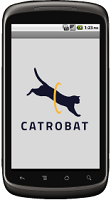
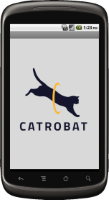
HTML-171 DevieEmulator UI
Style for Device Emulator

diff --git a/Client/pocketCode/css/pocketCode.css b/Client/pocketCode/css/pocketCode.css
@@ -1340,6 +1340,95 @@
 }
 
 /*Slider Control*/
+.pc-slider input[type=range]{
+    -webkit-appearance: none;
+    border-radius: 3px;
+    width: 310px;
+}
+    .pc-slider input[type=range]::-webkit-slider-runnable-track {
+        width: 310px;
+        height: 5px;
+        background: #17A5B8;
+        border-radius: 3px;
+    }
+
+    .pc-slider input[type=range]::-webkit-slider-thumb {
+        -webkit-appearance: none;
+        border: none;
+        height: 16px;
+        width: 16px;
+        border-radius: 50%;
+        background: #A9DCF1;
+        margin-top: -4px;
+    }
+
+    .pc-slider input[type=range]:focus {
+        outline: none;
+    }
+
+    .pc-slider input[type=range]:focus::-webkit-slider-runnable-track {
+        background: #17A5B8;
+    }
+
+    .pc-slider input[type=range]::-moz-range-track {
+        width: 310px;
+        height: 5px;
+        background: #17A5B8;
+        border: none;
+        border-radius: 3px;
+    }
+
+    .pc-slider input[type=range]::-moz-range-thumb {
+        border: none;
+        height: 16px;
+        width: 16px;
+        border-radius: 50%;
+        background: #A9DCF1;
+    }
+
+    .pc-slider input[type=range]:-moz-focusring{
+        outline: 1px solid white;
+        outline-offset: -1px;
+    }
+
+    .pc-slider input[type=range]:focus::-moz-range-track {
+        background: #ccc;
+    }
+
+    .pc-slider input[type=range]::-ms-track {
+        width: 310px;
+        height: 5px;
+        background: transparent;
+        border-color: transparent;
+        border-width: 6px 0;
+        color: transparent;
+    }
+
+    .pc-slider input[type=range]::-ms-fill-lower {
+        background: #17A5B8;
+        border-radius: 5px;
+    }
+
+    .pc-slider input[type=range]::-ms-fill-upper {
+        background: #17A5B8;
+        border-radius: 5px;
+    }
+
+    .pc-slider input[type=range]::-ms-thumb {
+        border: none;
+        height: 16px;
+        width: 16px;
+        border-radius: 50%;
+        background: #A9DCF1;
+    }
+
+    .pc-slider input[type=range]:focus::-ms-fill-lower {
+        background: #17A5B8;
+    }
+
+    .pc-slider input[type=range]:focus::-ms-fill-upper {
+        background: #17A5B8;
+    }
 
 /*Device Emulator*/
 .pc-deviceEmulator {
@@ -1358,7 +1447,13 @@
     color: #D3D3D3;
 }
 
+[dir='rtl'] .pc-deviceEmulator {
+    left: 18px;
+    right: auto;
+}
+
     .pc-deviceEmulator .pc-expander {
+
     }
 
     .pc-deviceEmulator .pc-expanderHeader {
@@ -1367,17 +1462,27 @@
         color: #A9DCF1;
         font-size: 19px;
     }
+     [dir='rtl'] .pc-deviceEmulator .pc-expanderHeader {
+         right: auto;
+
+     }
 
         .pc-deviceEmulator .pc-expanderHeader label::after {
             content: '<';
         }
 
     .pc-deviceEmulator .pc-expanderBody {
+
     }
 
         .pc-deviceEmulator .pc-expanderBody span {
             display: block;
             padding: 3px;
+            width: 360px;
+        }
+
+        .pc-deviceEmulator .pc-expanderBody .pc-dEImg {
+            text-align: center;
         }
 
 .pc-deviceEmulatorScroll {

diff --git a/Client/pocketCode/scripts/ui/deviceEmulator.js b/Client/pocketCode/scripts/ui/deviceEmulator.js
@@ -56,6 +56,7 @@ PocketCode.Ui.DeviceEmulator = (function () {
         this._img.src = 'https://share.catrob.at/html5/pocketCode/img/emulatorPhone.png';
         span = new SmartJs.Ui.HtmlTag('span');
         span.appendChild(this._img);
+        span.addClassName('pc-dEImg');
         scroll.appendChild(span);
 
         tn = new PocketCode.Ui.I18nTextNode('lbDInclinationX');
